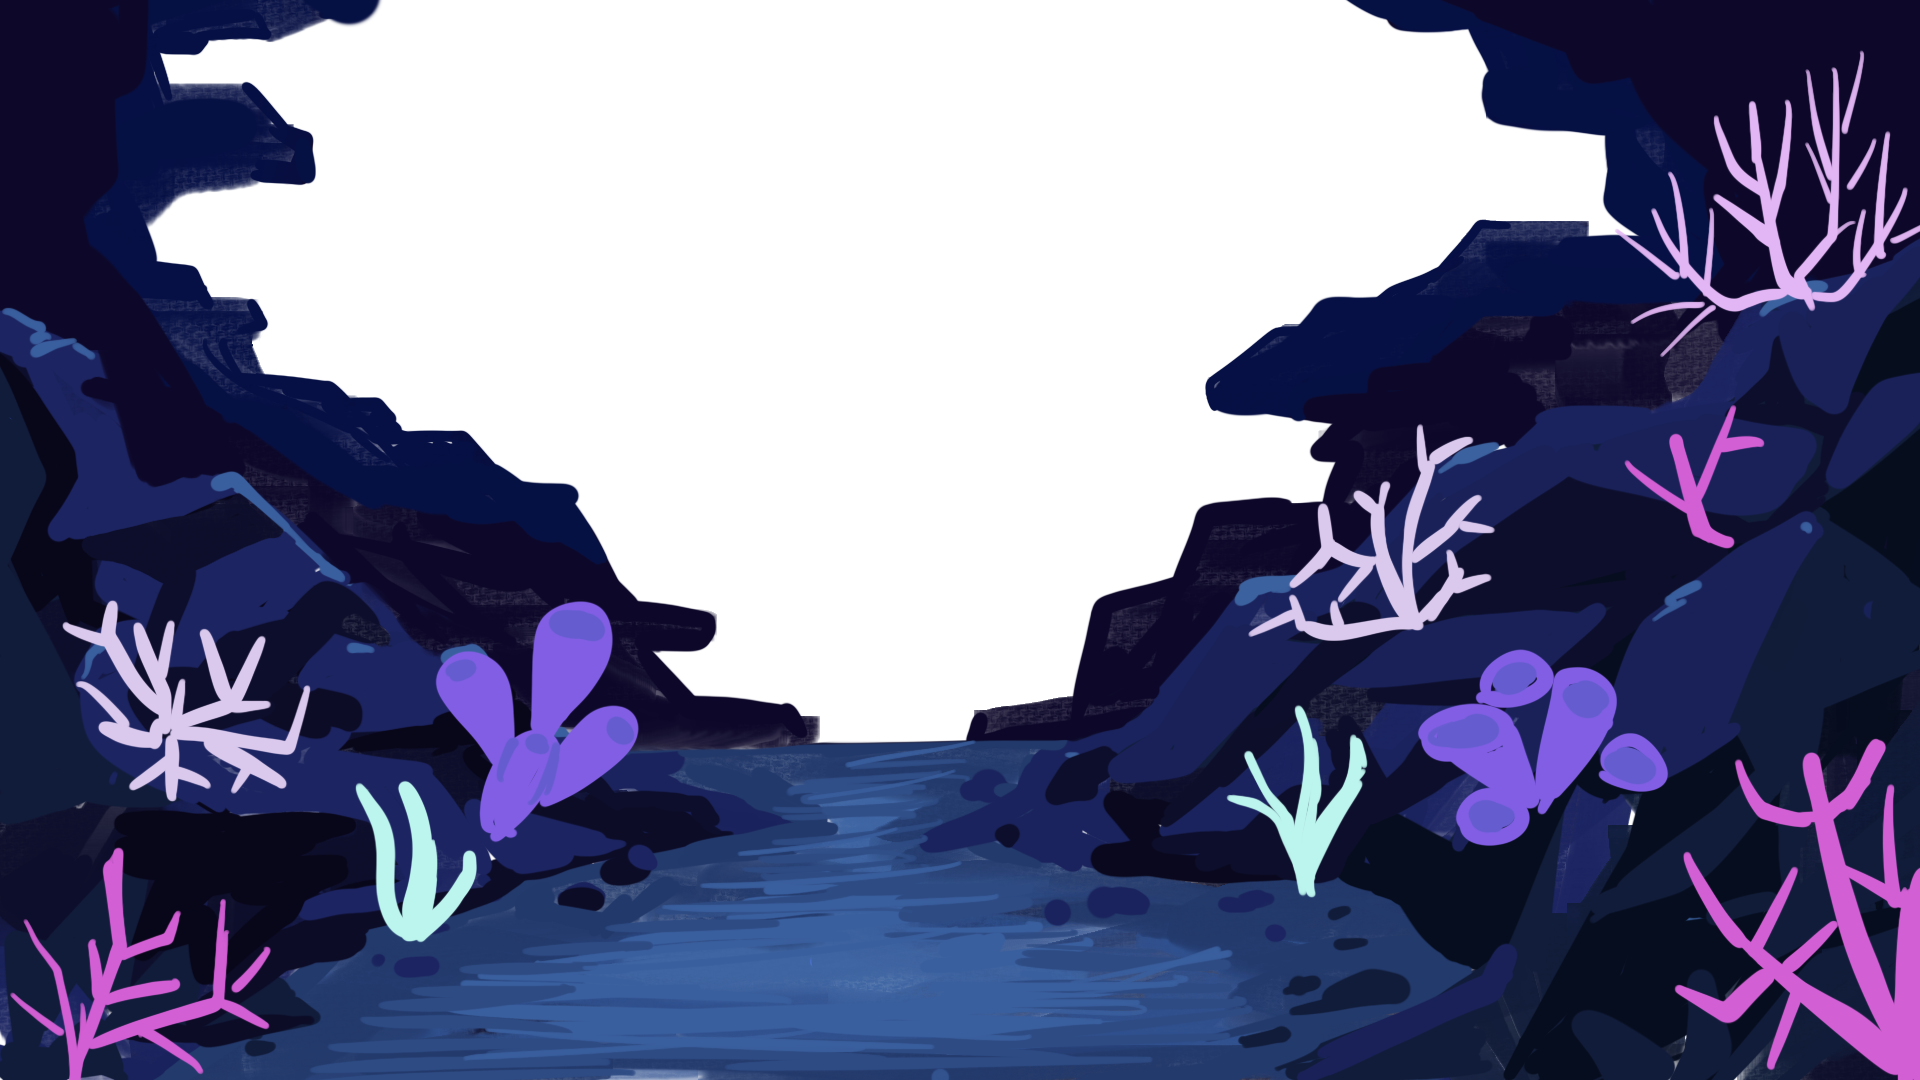
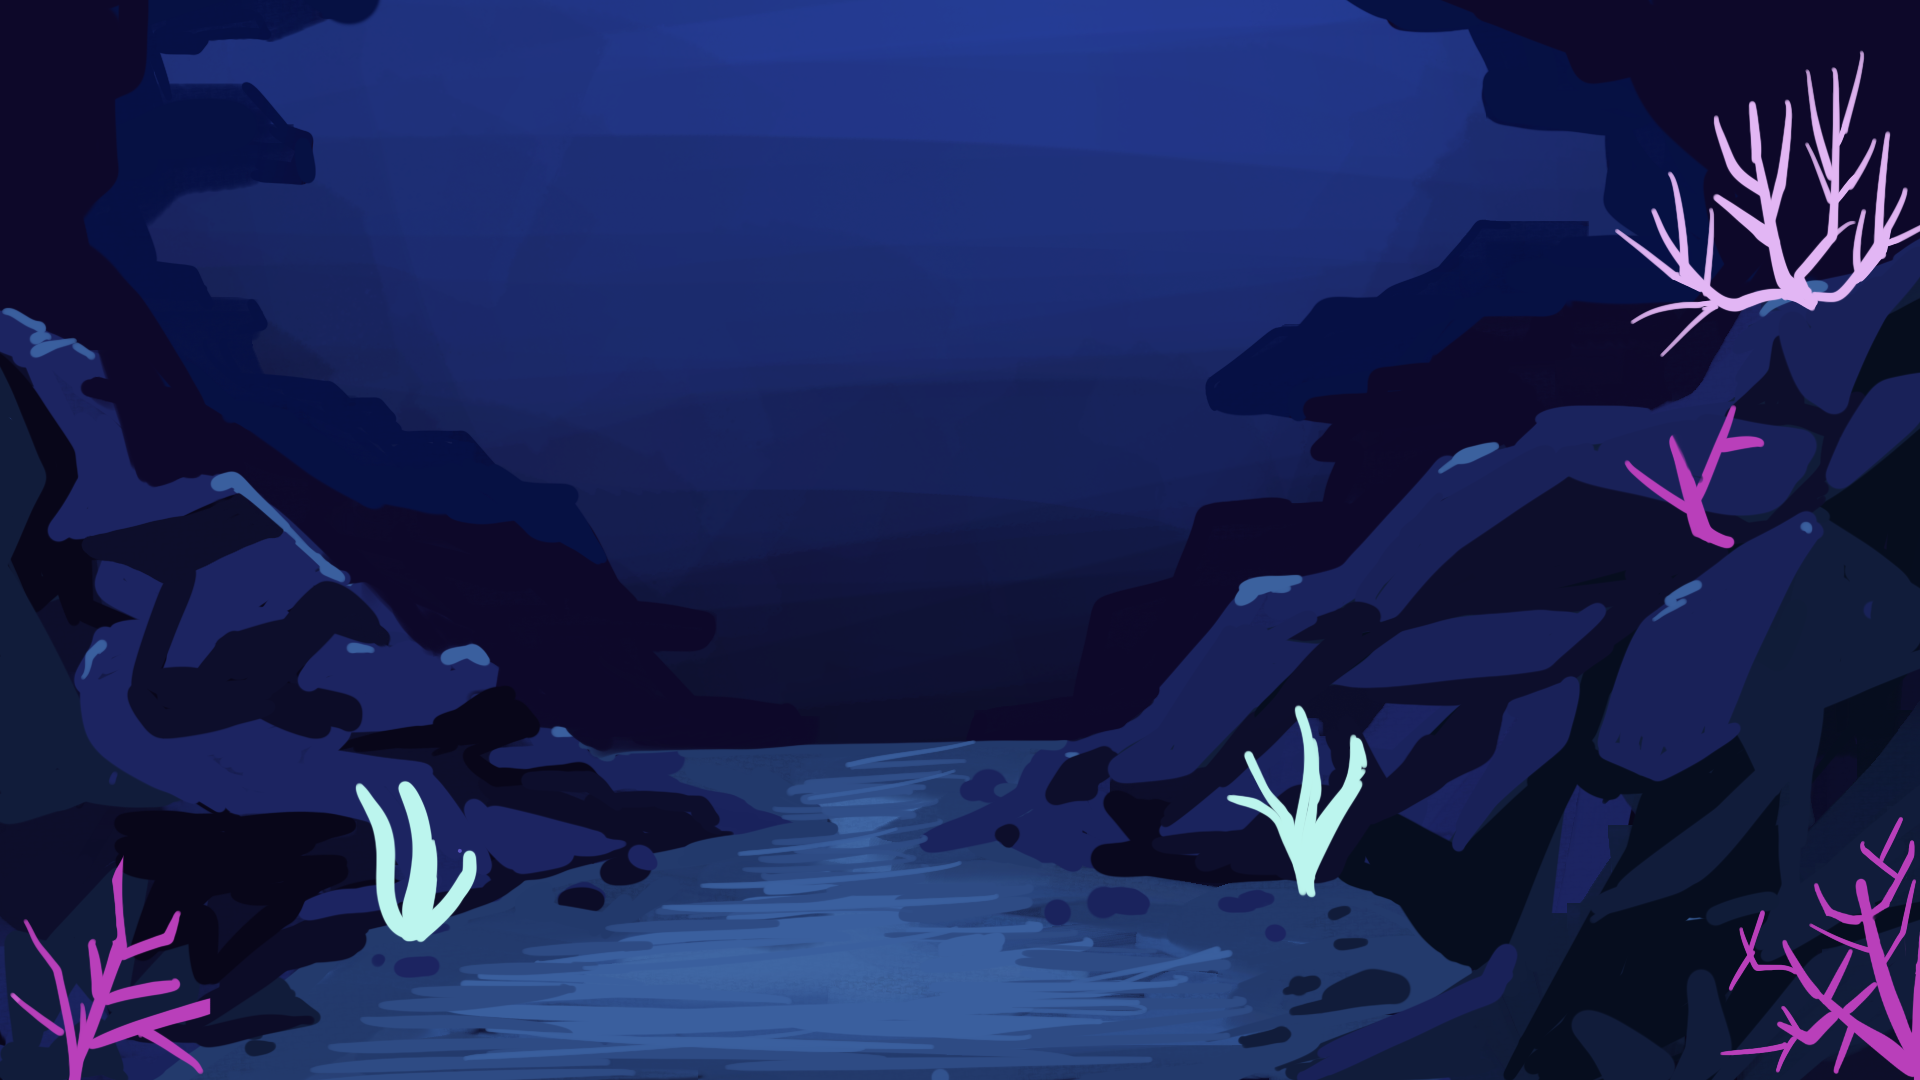
developed magic scene  and added corals with volume code

diff --git a/music_starter.js b/music_starter.js
@@ -1,11 +1,13 @@
 let BubbleArrayX = [50, 90, 270, 600, 100, 150, 800, 1200, 1600, 1800, 1600, 600, 200, 300, 330, 500, 900];
 let BubbleArrayY = [150, 120, 160, 90, 600, 650, 600, 600, 900, 100, 400, 500, 900, 450, 460, 700, 1040];
 let BubbleArraySize = [50, 30, 30, 50, 60, 40, 55, 30, 40, 50, 60, 40, 54, 40, 20, 30, 50];
-let ShineArrayX = [500, 300, 800, 1500, 1700, 100];
-let ShineArrayY = [130, 1000, 300, 100, 400, 700];
+let ShineArrayX = [900, 100, 300, 1200, 1500, 1550];
+let ShineArrayY = [130, 850, 1000, 300, 340, 690];
+let CircleArrayX = [500, 700, 100, 60, 220, 50, 500, 1000, 860, 600, 1200, 1400, 1170, 1400, 1600, 1870, 1640];
+let CircleArrayY = [50, 60, 160, 650, 840, 1000, 1040, 1020, 340, 250, 120, 50, 450, 540, 800, 300, 200];
 let bubbles = [];
-let coralArrayX = [60, 170, 300, 50, 250, 400, 500, 530, 1400, 1750, 1450, 1600, 1900, 1740];
-let coralArrayY = [750, 900, 900, 1000, 1000, 700, 800, 950, 900, 550, 650, 700, 700, 850];
+let coralArrayX = [10, 5, 60, 70, 130, 150, 150, 20, 1590, 1660, 1680, 1600, 1670, 1750, 210];
+let coralArrayY = [950, 1040, 1000, 900, 960, 890, 1040, 870, 530, 560, 500, 470, 420, 460, 970];
 let fishX = 1;
 let fishY = 0;
 let Ymove = 250 //where the bubbles start 250
@@ -13,24 +15,34 @@ let Ymove2 = 1380
 let Ymove3 = 1480
 let img; //pink fish
 let img2; //blue fish
-let img3; //Background elements
-let img4; //bw background
-let img5; //water
+let img3; //rocks
+let img4; //bw rocks w coral
+let img5; //water background
+let img6; //bw purple coral
+let img7; //purple coral
+let img8; //purple coral
+let img9; //swirl
+let img10; //magic background
+let img11; //bw purplecoral(2)
 let firstRun = true
 let bubblesInitialized = false;
 // vocal, drum, bass, and other are volumes ranging from 0 to 100
 function draw_one_frame(words, vocal, drum, bass, other, counter) {
-
-  rectMode(CENTER)
-
   if (firstRun) { //images
     img = loadImage('Pink_Fish.png'); //pink fish
     img2 = loadImage('Blue_Fish.png'); //blue fish
     img3 = loadImage('RockCoral.png');
     img4 = loadImage('BWRockCoral.png');
-    img5 = loadImage('Water.png')
+    img5 = loadImage('Water.png');
+    img6 = loadImage('BWPurpleCoral.png')
+    img7 = loadImage('PurpleCoral.png');
+    img8 = loadImage('PurpleCoral2.png');
+    img9 = loadImage('Swirl.png');
+    img10 = loadImage('magicbackground.png');
+    img11 = loadImage('BWPurpleCoral2')
     firstRun = false
   }
+  rectMode(CENTER)
   background(img5);
 
   class Bubble {
@@ -53,59 +65,71 @@ function draw_one_frame(words, vocal, drum, bass, other, counter) {
   }
 
   let bubbles = new Bubble(200, 0, 500);
-  let fillSize = map(other, 0, 100, 4, 30);
-  let bubbleSize = map(bass, 0, 100, 50, 90);
-  let shineSize = map(vocal, 0, 100, 5, 100);
-  let shineAuraSize = map(vocal, 0, 100, 30, 150);
-  let spinAmount = map(drum, 0, 100, 0, 150);
+  let coralSize = map(bass, 0, 100, 260, 320);
+  let coralLength = map(vocal, 0, 100, 20, 70);
+  let spinAmount = map(drum, 0, 100, 0, 140);
   let fishY = map(other, 0, 100, 430, 530);
+  //magic variables
+  let shineSize = map(vocal, 0, 100, 40, 100);
+  let circleSize = map(bass, 0, 100, 3, 30);
 
   //scene changes!!
   //start and end
   if ((counter > -5 && counter < 901) || (counter > 14700 && counter < 15801)) {
-    image(img3, 0, 0)
-    DrawCoral([211, 95, 212]);
+    image(img3, 0, 0); //rocks
+    image(img7, 430, 550, coralSize, coralSize); //purple corals 
+    image(img8, 1400, 550, coralSize, coralSize);
+    DrawCoral([211, 95, 212], [226, 182, 244]); //spinning coral
+    DrawCoral([211, 95, 212], [226, 182, 244], 1150, -140);
+    DrawCoral([211, 95, 212], [226, 182, 244], 50, 100, 0.5);
     DrawSeaweed();
-    image(img2, 800, fishY) //change to blue fishy
-
+    image(img2, 800, fishY); //change to blue fishy
 
   }
 
 
   //build up
   if ((counter > 900 && counter < 2721) || (counter > 6500 && counter < 7401) || (counter > 10100 && counter < 12001)) {
-    image(img3, 0, 0)
-    //swirls 
-    DrawCoral([211, 95, 212]);
+    image(img3, 0, 0); //rocks
+    image(img7, 430, 550, coralSize, coralSize); //purple corals 
+    image(img8, 1400, 550, coralSize, coralSize);
+    DrawCoral([211, 95, 212], [226, 182, 244]);
+    DrawCoral([211, 95, 212], [226, 182, 244], 1150, -140);
+    DrawCoral([211, 95, 212], [226, 182, 244], 50, 100, 0.5);
     DrawSeaweed();
     image(img, 800, fishY); // pink fish
-
   }
 
 
   //magic
   if ((counter > 2720 && counter < 5601) || (counter > 7400 && counter < 9201) || (counter > 12000 && counter < 14700)) {
-    background(83, 60, 122);
+    image(img10, 0, 0);
+    background
+    image(img9, 0, 0); //swirls :O
     image(img, 800, fishY); // fish
-    //swirls 
+    //circles
+    for (let s = 0; s <= 17; s++) {
+      fill(247, 237, 213);
+      stroke(247, 237, 213);
+      strokeWeight(2);
+      ellipse(CircleArrayX[s], CircleArrayY[s], circleSize)
+    }
 
-    //the shines and stars should be glowing and changing size
+
+
     for (let j = 0; j <= 20; j++) { //shines
-      // //shine aura
-      // fill(172, 140, 155);
-      // strokeWeight(0);
-      // ellipse(ShineArrayX[j], ShineArrayY[j], shineAuraSize);
-
-      fill(253, 252, 208); //light yellow
-      stroke(253, 252, 208);
-      strokeWeight(4);
+      //shines
+      fill(249, 227, 178); //light yellow
+      stroke(249, 227, 178);
+      strokeWeight(8);
 
       ellipse(ShineArrayX[j], ShineArrayY[j], shineSize, 5);
       ellipse(ShineArrayX[j], ShineArrayY[j], 5, shineSize); //shine shape
 
+
+      // for (let h = 0; h <= 20; h++) { //stars
+      // }
     }
-    // for (let h = 0; h <= 20; h++) { //stars
-    // }
   }
 
 
@@ -113,10 +137,13 @@ function draw_one_frame(words, vocal, drum, bass, other, counter) {
   if ((counter > 5600 && counter < 6501) || (counter > 9200 && counter < 10101)) {
     background(36, 36, 36);
     image(img4, 0, 0)
+    image(img6, 430, 550, coralSize, coralSize); //purple corals 
+    image(img11, 1400, 550, coralSize, coralSize);
     stroke('white');
-    DrawCoral(['grey']);
+    DrawCoral([143, 143, 143], [210, 210, 210]);
+    DrawCoral([143, 143, 143], [210, 210, 210], 1150, -140);
+    DrawCoral([143, 143, 143], [210, 210, 210], 50, 100, 0.5);
     DrawSeaweed();
-
   }
 
   //bubbles 
@@ -158,11 +185,11 @@ function draw_one_frame(words, vocal, drum, bass, other, counter) {
   }
 
   Ymove = Ymove - 1; //speed
-  if (Ymove < -1000) { //if it goes past this value
+  if (Ymove < -1100) { //if it goes past this value
     Ymove = 1480; //where it resets to?
   }
   Ymove2 = Ymove2 - 1;
-  if (Ymove2 < -1200) {
+  if (Ymove2 < -1100) {
     Ymove2 = 1480;
   }
   Ymove3 = Ymove3 - 13;
@@ -176,22 +203,34 @@ function draw_one_frame(words, vocal, drum, bass, other, counter) {
     text(nf(seconds, 3, 2), 20, height - 20);
   }
 
-  function DrawCoral(coralColour, roundColour) { //scenery
-    //some sort of round coral changing SIZE to bass or drum
-    //blue semicircles some sort of aquatic plant?
-    // star shaped coral rotating to vocals
-    for (let c = 0; c <= 13; c++) {
-      stroke(185, 100, 233);
-      strokeWeight(7);
-      fill(185, 100, 233); //purple
-
-
-
-
+  function DrawCoral(coralColour, spikeColour, offsetX = 0, offsetY = 0, size = 1) { //corals
+    for (let n = 0; n <= 2; n++) { //for whiteish tree corals
+      stroke(spikeColour);
+      fill(spikeColour);
+      strokeWeight(13);
+      push();
+      translate(offsetX, offsetY)
+      scale(size)
+      line(160, 730, 300, 650 + coralLength);
+      line(230, 665 + coralLength, 200, 600 + coralLength);
+      line(230, 665 + coralLength, 270, 590 + coralLength);
+      line(160, 730, 100, 600 + coralLength);
+      line(100, 600 + coralLength, 120, 570 + coralLength);
+      line(100, 600 + coralLength, 60, 590 + coralLength);
+      line(160, 730, 150, 600 + coralLength);
+      line(160, 730, 180, 629 + coralLength)
+      line(160, 730, 150, 760 + coralLength);
+      line(150, 740 + coralLength, 120, 760 + coralLength);
+      line(160, 720 + coralLength, 190, 770 + coralLength);
+      line(160, 730, 290, 710 + coralLength);
+      line(200, 700 + coralLength, 250, 740 + coralLength)
+      line(160, 730, 100, 690 + coralLength);
+      line(120, 690 + coralLength, 90, 650 + coralLength);
+      pop();
 
     }
 
-    for (let k = 0; k <= 13; k++) { //pink star shaped corals
+    for (let k = 0; k <= 14; k++) { //pink star shaped corals
       push();
       stroke(coralColour);
       fill(coralColour);

diff --git a/music_counter.js b/music_counter.js
@@ -1,54 +1,53 @@
-
 let lastWords = "...";
 let wordBrightness = 255;
 let yOffset = 0;
 
 function draw_one_frame(words, vocal, drum, bass, other, counter) {
-background(0);
-rectMode(CENTER);
-textAlign(CENTER);
-textFont('Luminari '); // please use CSS safe fonts
+  background(0);
+  rectMode(CENTER);
+  textAlign(CENTER);
+  textFont('Luminari '); // please use CSS safe fonts
 
-if (words == "") {
-  wordBrightness = int(wordBrightness * 0.95); //fade brightness 
-  words = lastWords; // safe the last known word so we can display 
-  if (yOffset < height / 4) {
-    yOffset = yOffset + 1;
+  if (words == "") {
+    wordBrightness = int(wordBrightness * 0.95); //fade brightness 
+    words = lastWords; // safe the last known word so we can display 
+    if (yOffset < height / 4) {
+      yOffset = yOffset + 1;
+    }
+  } else {
+    wordBrightness = 255; // set brightness to max
+    yOffset = 0; //don't offset down
+    lastWords = words; // keep track of what the most recent word is
   }
-} else {
-  wordBrightness = 255; // set brightness to max
-  yOffset = 0; //don't offset down
-  lastWords = words; // keep track of what the most recent word is
-}
 
-fill(wordBrightness);
-textSize(40);
-text(words, width / 2, height / 5 + yOffset); // display current lyric in middle of page, then fade down
+  fill(wordBrightness);
+  textSize(40);
+  text(words, width / 2, height / 5 + yOffset); // display current lyric in middle of page, then fade down
 
-let volume_vocal = map(vocal, 0, 100, 0, 0.7 * height, true);
-let volume_drum  = map(drum, 0, 100, 0, 0.7 * height, true);
-let volume_bass  = map(bass, 0, 100, 0, 0.7 * height, true);
-let volume_other = map(other, 0, 100, 0, 0.7 * height, true);
+  let volume_vocal = map(vocal, 0, 100, 0, 0.7 * height, true);
+  let volume_drum = map(drum, 0, 100, 0, 0.7 * height, true);
+  let volume_bass = map(bass, 0, 100, 0, 0.7 * height, true);
+  let volume_other = map(other, 0, 100, 0, 0.7 * height, true);
 
 
 
-rectMode(CENTER);
-let rectY = height/3 *2
-fill(200, 0, 0);
-rect(2*width/10, rectY, width/6, volume_vocal);
-fill(0, 200, 0);
-rect(4*width/10, rectY, width/6, volume_drum);
-fill(200, 200, 200);
-rect(6*width/10, rectY, width/6, volume_bass);
-fill(0, 0, 200);
-rect(8*width/10, rectY, width/6, volume_other);
+  rectMode(CENTER);
+  let rectY = height / 3 * 2
+  fill(200, 0, 0);
+  rect(2 * width / 10, rectY, width / 6, volume_vocal);
+  fill(0, 200, 0);
+  rect(4 * width / 10, rectY, width / 6, volume_drum);
+  fill(200, 200, 200);
+  rect(6 * width / 10, rectY, width / 6, volume_bass);
+  fill(0, 0, 200);
+  rect(8 * width / 10, rectY, width / 6, volume_other);
 
-fill(200)
-textAlign(LEFT);
-// demonstrate use of non-documented "counter" variable
-let seconds = counter
-if(seconds > 0) {
-  textSize(60);
-  text(nf(seconds, 3, 2), 20, height-20);
-}
+  fill(200)
+  textAlign(LEFT);
+  // demonstrate use of non-documented "counter" variable
+  let seconds = counter
+  if (seconds > 0) {
+    textSize(60);
+    text(nf(seconds, 3, 2), 20, height - 20);
+  }
 }
